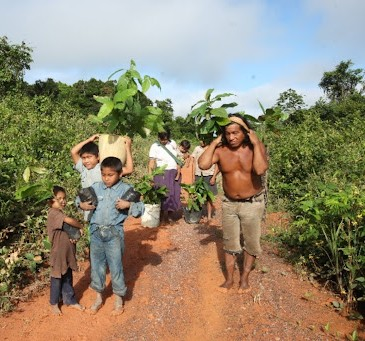
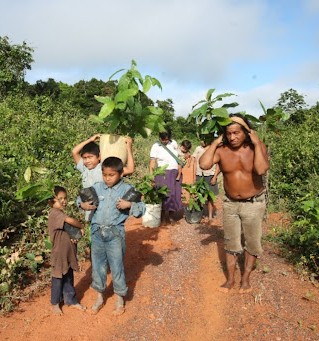
cambiando hero image y about image

diff --git a/src/components/Nosotros.tsx b/src/components/Nosotros.tsx
@@ -26,13 +26,13 @@ export default function Nosotros() {
         <div className="nosotros__grid">
           <div className="nosotros__image-wrap">
             <img
-              src="comunidadActiva2.jpg"
+              src="comunidadActiva.jpg"
               alt="Ecosistema de manglar — área de intervención GIMEFOR en el Delta del Orinoco"
               className="nosotros__image"
             />
             <div className="nosotros__badge">
-              <span className="nosotros__badge-number">1995</span>
-              <span className="nosotros__badge-label">Año de fundación</span>
+              <span className="nosotros__badge-number">Acción</span>
+              <span className="nosotros__badge-label">COMUNITARIA</span>
             </div>
           </div>
 
